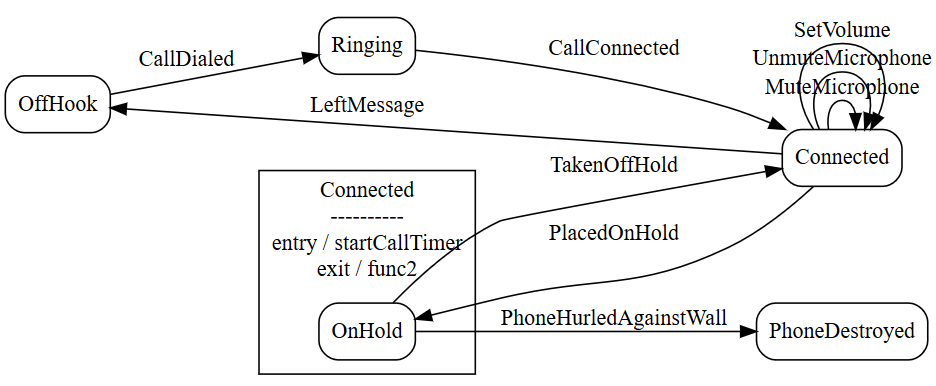
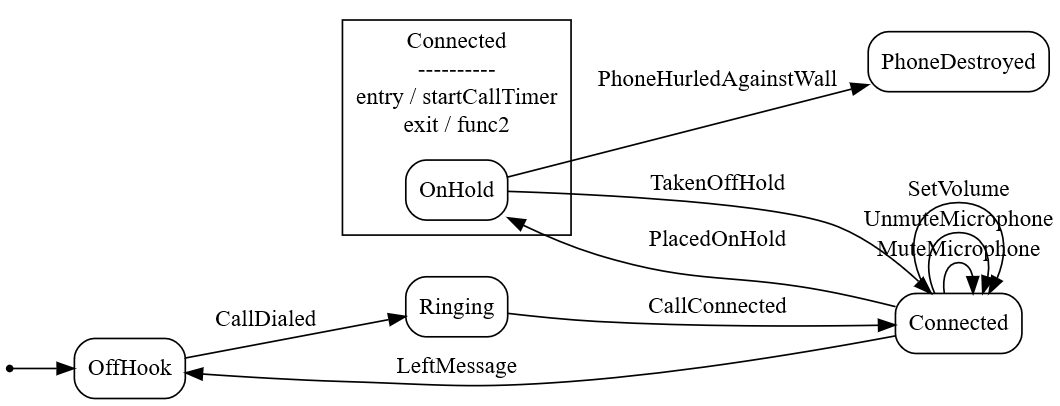
take into account state when creating graph

diff --git a/example_test.go b/example_test.go
@@ -69,6 +69,8 @@ func Example() {
 		Permit(triggerTakenOffHold, stateConnected).
 		Permit(triggerPhoneHurledAgainstWall, statePhoneDestroyed)
 
+	phoneCall.ToGraph()
+
 	phoneCall.Fire(triggerCallDialed, "qmuntal")
 	phoneCall.Fire(triggerCallConnected)
 	phoneCall.Fire(triggerSetVolume, 2)
@@ -80,7 +82,6 @@ func Example() {
 	phoneCall.Fire(triggerPlacedOnHold)
 	phoneCall.Fire(triggerPhoneHurledAgainstWall)
 	fmt.Printf("State is %s\n", phoneCall.MustState())
-	phoneCall.ToGraph()
 
 	// Output:
 	// [Phone Call] placed for : [qmuntal]

diff --git a/graph.go b/graph.go
@@ -1,6 +1,7 @@
 package stateless
 
 import (
+	"context"
 	"fmt"
 	"strings"
 )
@@ -20,6 +21,11 @@ func (g *graph) FormatStateMachine(sm *StateMachine) string {
 	}
 	for _, sr := range sm.stateConfig {
 		sb.WriteString(g.formatAllStateTransitions(sm, sr))
+	}
+	initialState, err := sm.State(context.Background())
+	if err == nil {
+		sb.WriteString("\n init [label=\"\", shape=point];")
+		sb.WriteString(fmt.Sprintf("\n init -> {%s}[style = \"solid\"]", initialState))
 	}
 	sb.WriteString("\n}")
 	return sb.String()
